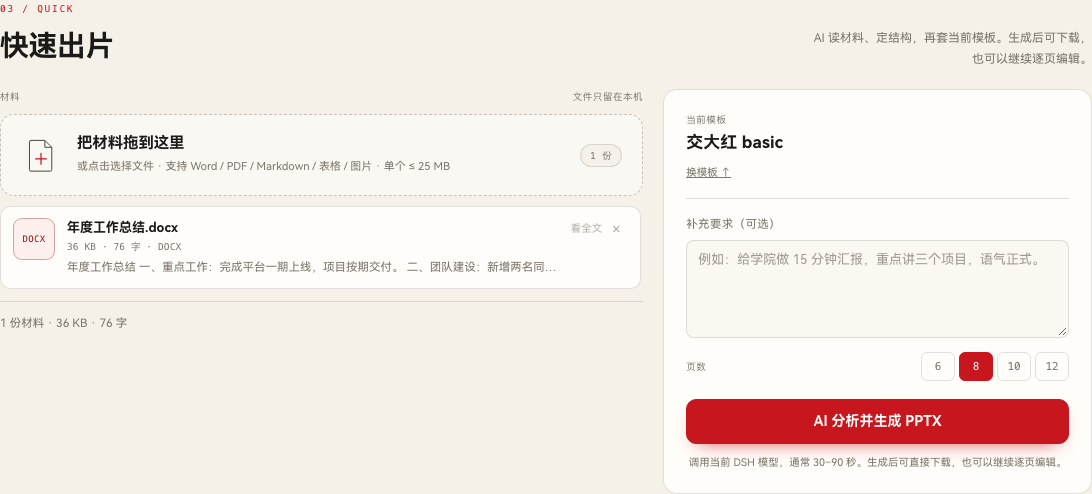
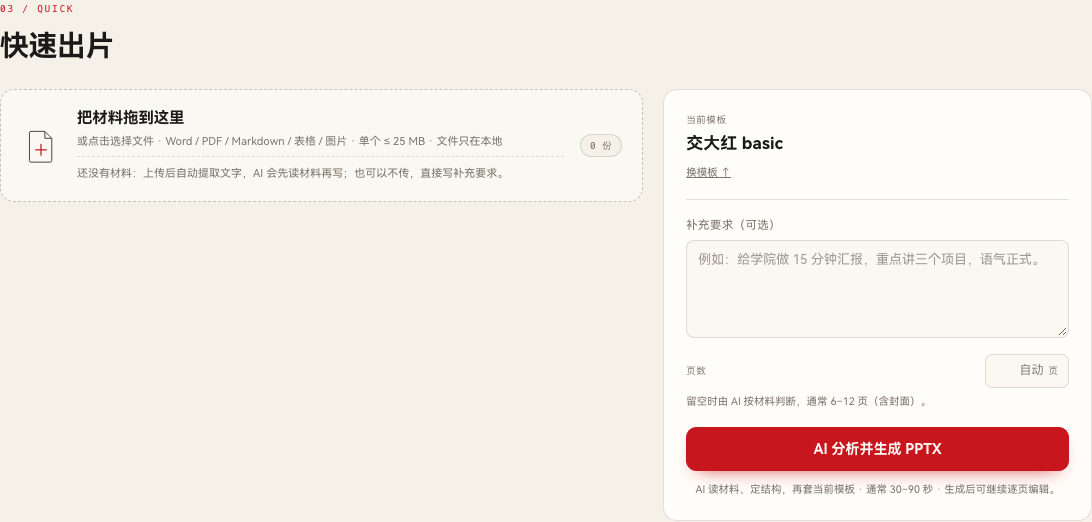
feat: refine quick panel and auto page count

diff --git a/web/index.html b/web/index.html
@@ -105,14 +105,9 @@
               <p class="kicker">03 / QUICK</p>
               <h2>快速出片</h2>
             </div>
-            <p class="block-note">AI 读材料、定结构，再套当前模板。生成后可下载，也可以继续逐页编辑。</p>
           </div>
           <div class="quick-grid">
             <div class="quick-desk">
-              <div class="quick-desk-head">
-                <span>材料</span>
-                <span>文件只留在本机</span>
-              </div>
               <div class="drop-zone quick-drop" id="dropZone" tabindex="0" role="button" aria-label="上传材料">
                 <svg class="drop-icon" viewBox="0 0 52 52" fill="none" aria-hidden="true">
                   <path d="M13 7h18l9 9v29a2 2 0 0 1-2 2H13a2 2 0 0 1-2-2V9a2 2 0 0 1 2-2Z" stroke="currentColor" stroke-width="1.3" />
@@ -121,17 +116,13 @@
                 </svg>
                 <div class="drop-copy">
                   <strong>把材料拖到这里</strong>
-                  <span>或点击选择文件 · 支持 Word / PDF / Markdown / 表格 / 图片 · 单个 ≤ 25 MB</span>
+                  <span>或点击选择文件 · Word / PDF / Markdown / 表格 / 图片 · 单个 ≤ 25 MB · 文件只在本地</span>
+                  <span class="quick-empty" id="materialEmpty">还没有材料：上传后自动提取文字，AI 会先读材料再写；也可以不传，直接写补充要求。</span>
                 </div>
                 <span class="drop-count" id="materialCount">0 份</span>
                 <span class="drop-status" id="dropStatus" hidden></span>
               </div>
 
-              <div class="material-empty material-empty-quick" id="materialEmpty">
-                <span class="empty-glyph" aria-hidden="true">稿</span>
-                <strong>还没有材料</strong>
-                <span>上传后自动提取文字；AI 会先读材料再写。</span>
-              </div>
               <div class="material-list" id="materialList"></div>
               <div class="material-foot" id="materialFoot" hidden>
                 <span id="materialSummary">—</span>
@@ -149,20 +140,19 @@
                 <textarea id="quickBrief" rows="4" maxlength="1500" placeholder="例如：给学院做 15 分钟汇报，重点讲三个项目，语气正式。"></textarea>
               </label>
               <div class="quick-pages">
-                <span class="quick-label">页数</span>
-                <div class="page-options" id="quickPages" role="group" aria-label="生成页数">
-                  <button type="button" data-pages="6">6</button>
-                  <button type="button" data-pages="8" class="active" aria-pressed="true">8</button>
-                  <button type="button" data-pages="10">10</button>
-                  <button type="button" data-pages="12">12</button>
+                <label class="quick-label" for="quickPagesInput">页数</label>
+                <div class="pages-field">
+                  <input id="quickPagesInput" type="number" min="4" max="20" step="1" inputmode="numeric" placeholder="自动" aria-describedby="quickPagesHint" />
+                  <span>页</span>
                 </div>
               </div>
+              <p class="quick-hint" id="quickPagesHint">留空时由 AI 按材料判断，通常 6–12 页（含封面）。</p>
               <button class="btn primary lg quick-generate" id="quickGenerate" type="button">
                 <span class="spinner" id="quickSpinner" hidden></span>
                 <span id="quickLabel">AI 分析并生成 PPTX</span>
               </button>
               <p class="quick-status" id="quickStatus" hidden></p>
-              <p class="quick-note">调用当前 DSH 模型，通常 30–90 秒。生成后可直接下载，也可以继续逐页编辑。</p>
+              <p class="quick-note">AI 读材料、定结构，再套当前模板 · 通常 30–90 秒 · 生成后可继续逐页编辑。</p>
             </aside>
           </div>
           <input type="file" id="materialInput" multiple hidden accept=".doc,.docx,.pdf,.md,.markdown,.txt,.csv,.json,.html,.htm,.rtf,.ppt,.pptx,.xls,.xlsx,.png,.jpg,.jpeg,.webp,.gif" />

diff --git a/lib/quick.js b/lib/quick.js
@@ -129,10 +129,13 @@ function trimSlides(slides, max) {
  * 一键生成：材料 → 模型结构化 → 套模板 → .pptx。
  * @param {import('node:http').IncomingMessage['socket']} _unused
  */
-export async function quickGenerate(ctx, { templateId, brief = '', materialIds, pages = 8 } = {}) {
+export async function quickGenerate(ctx, { templateId, brief = '', materialIds, pages = null } = {}) {
   const template = templateById(String(templateId || ''))
   if (!template) throw Object.assign(new Error('模板不存在'), { status: 400 })
-  const wanted = Math.max(4, Math.min(20, Number(pages) || 8))
+  const asked = Number(pages)
+  const explicit = Number.isFinite(asked) && asked >= 4
+  const wanted = explicit ? Math.min(20, Math.round(asked)) : null
+  const maxSlides = explicit ? Math.max(3, wanted - 1) : 14
   const materials = pickMaterials(materialIds)
   const textMats = materials.filter((m) => m.chars > 0)
   const note = String(brief || '').trim().slice(0, 1500)
@@ -146,10 +149,14 @@ export async function quickGenerate(ctx, { templateId, brief = '', materialIds, 
     '只输出一个 JSON 对象，不要 markdown 代码块，不要解释，不要前后缀。',
   ].join('\n')
 
+  const pageGoal = explicit
+    ? `目标：整份 PPT 约 ${wanted} 页（含封面，正文约 ${wanted - 1} 个页面），不要超过 ${wanted} 页。页数已由用户指定，按这个页数组织内容，不要为了凑页数重复。`
+    : '目标：先根据材料的信息量判断一个合理页数（含封面，通常 6–12 页；材料少 5–8 页，材料多 10–14 页，最多 15 页），再按这个页数组织内容；不要为了凑页数重复。'
+
   const prompt = [
     `模板：${template.display || `${template.label} ${template.name}`}`,
     `模板特点：${template.description}`,
-    `目标：整份 PPT 约 ${wanted} 页（含封面，正文约 ${wanted - 1} 个页面），不要超过 ${wanted} 页。`,
+    pageGoal,
     note ? `补充要求：\n${note}` : '补充要求：无',
     '',
     context.text ? `材料：\n${context.text}` : '材料：没有可读文字，请主要依据补充要求写。',
@@ -164,14 +171,15 @@ export async function quickGenerate(ctx, { templateId, brief = '', materialIds, 
     ']}',
     '',
     '规则：',
-    '- 只使用材料里出现的事实和数据；材料没写的数字不要编。',
+    '- 只使用材料里出现的事实和数据；材料没写的具体数字、人名、时间不要编。',
+    '- 如果材料很少或没有文字材料，可以依据主题补充可靠的通用背景，但不要编造具体数据、人名、时间、机构。',
     '- 每页 title ≤ 24 字；content 3–5 条，每条 ≤ 40 字，不要写序号或 bullet 符号。',
-    '- 一页一个观点；目录 3–4 项；内页 2–5 个；1 个 section；1 个 end。',
+    '- 一页一个观点；目录 3–4 项；内页 3–10 个；1 个 section；1 个 end。',
     '- 用中文，正式、具体，不要「赋能」「闭环」这类空话。',
   ].join('\n')
 
   const text = await llmText(ctx, { system, prompt, maxTokens: 6000, timeoutMs: 180_000 })
-  const shaped = shapeContent(parseJsonLoose(text), Math.max(3, wanted - 1))
+  const shaped = shapeContent(parseJsonLoose(text), maxSlides)
 
   const now = new Date()
   const content = {

diff --git a/web/app.js b/web/app.js
@@ -29,7 +29,7 @@ const state = {
   materials: [],
   coverAssets: [],
   mode: 'quick',
-  quickPages: 8,
+  quickPages: null,
 }
 
 let lastDeck = null
@@ -1055,13 +1055,16 @@ function coverAssetHintText() {
 }
 
 function setQuickPages(pages) {
-  const next = [6, 8, 10, 12].includes(Number(pages)) ? Number(pages) : 8
+  const n = Number.parseInt(pages, 10)
+  const next = Number.isFinite(n) && n >= 4 ? Math.min(20, n) : null
   state.quickPages = next
-  for (const button of $$('#quickPages button')) {
-    const active = Number(button.dataset.pages) === next
-    button.classList.toggle('active', active)
-    button.setAttribute('aria-pressed', active ? 'true' : 'false')
-  }
+  if (els.quickPages) els.quickPages.value = next ? String(next) : ''
+}
+
+function readQuickPages() {
+  const raw = els.quickPages ? els.quickPages.value.trim() : ''
+  const n = Number.parseInt(raw, 10)
+  return Number.isFinite(n) && n >= 4 ? Math.min(20, n) : null
 }
 
 function setMode(mode, { scroll = true } = {}) {
@@ -1110,6 +1113,12 @@ async function runQuick() {
     els.dropZone.scrollIntoView({ behavior: 'smooth', block: 'center' })
     return
   }
+  const pages = readQuickPages()
+  state.quickPages = pages
+  if (els.quickPages) {
+    if (pages) els.quickPages.value = String(pages)
+    else if (els.quickPages.value.trim()) els.quickPages.value = ''
+  }
   setQuickBusy(true, '正在读材料…')
   const analysis = setTimeout(() => setQuickBusy(true, 'AI 正在分析材料…'), 1200)
   const layout = setTimeout(() => setQuickBusy(true, '正在套模板排版…'), 15_000)
@@ -1121,7 +1130,7 @@ async function runQuick() {
         template: state.tId,
         brief,
         materialIds: materials.map((m) => m.id),
-        pages: state.quickPages,
+        pages,
       }),
     })
     const data = await response.json().catch(() => ({}))
@@ -1388,7 +1397,7 @@ async function boot() {
   els.buildBar = $('#buildBar')
   els.quickTemplateName = $('#quickTemplateName')
   els.quickBrief = $('#quickBrief')
-  els.quickPages = $('#quickPages')
+  els.quickPages = $('#quickPagesInput')
   els.quickGenerate = $('#quickGenerate')
   els.quickSpinner = $('#quickSpinner')
   els.quickLabel = $('#quickLabel')
@@ -1518,10 +1527,11 @@ function bind() {
   for (const card of $$('.mode-card')) {
     card.addEventListener('click', () => setMode(card.dataset.mode))
   }
-  els.quickPages.addEventListener('click', (event) => {
-    const button = event.target.closest('[data-pages]')
-    if (button) setQuickPages(button.dataset.pages)
+  els.quickPages.addEventListener('input', () => {
+    const n = Number.parseInt(els.quickPages.value, 10)
+    state.quickPages = Number.isFinite(n) && n >= 4 ? Math.min(20, n) : null
   })
+  els.quickPages.addEventListener('change', () => setQuickPages(els.quickPages.value))
   els.quickGenerate.addEventListener('click', runQuick)
 
   els.dropZone.addEventListener('click', () => {

diff --git a/web/style.css b/web/style.css
@@ -1638,18 +1638,6 @@ html[data-scheme="dark"] .ext-xls {
   min-width: 0;
 }
 
-.quick-desk-head {
-  display: flex;
-  align-items: center;
-  justify-content: space-between;
-  gap: 12px;
-  margin-bottom: 10px;
-  font-family: var(--mono);
-  font-size: 9.5px;
-  letter-spacing: 0.06em;
-  color: var(--ink-3);
-}
-
 .quick-drop {
   flex-direction: row;
   align-items: center;
@@ -1680,6 +1668,14 @@ html[data-scheme="dark"] .ext-xls {
   font-size: 11px;
 }
 
+.quick-drop .quick-empty {
+  margin-top: 9px;
+  padding-top: 8px;
+  border-top: 1px dashed var(--line);
+  font-size: 10.5px;
+  line-height: 1.65;
+}
+
 .quick-drop .drop-count {
   position: static;
   flex: none;
@@ -1695,11 +1691,6 @@ html[data-scheme="dark"] .ext-xls {
 .quick-desk .material-list {
   margin-top: 10px;
   max-height: 380px;
-}
-
-.quick-desk .material-empty-quick {
-  min-height: 140px;
-  margin-top: 10px;
 }
 
 .quick-settings {
@@ -1744,34 +1735,59 @@ html[data-scheme="dark"] .ext-xls {
   align-items: center;
   justify-content: space-between;
   gap: 12px;
-  margin: 14px 0 18px;
+  margin: 16px 0 6px;
 }
 
-.page-options {
-  display: flex;
-  gap: 4px;
-}
-
-.page-options button {
-  min-width: 34px;
-  padding: 5px 8px;
+.pages-field {
+  display: inline-flex;
+  align-items: center;
+  gap: 5px;
+  height: 34px;
+  padding: 0 10px;
   border: 1px solid var(--line);
-  border-radius: 6px;
+  border-radius: 7px;
+  background: var(--paper-2);
+  transition: border-color 0.18s;
+}
+
+.pages-field:focus-within {
+  border-color: var(--red);
+}
+
+.pages-field input {
+  width: 48px;
+  padding: 0;
+  border: 0;
+  outline: none;
   background: transparent;
   font-family: var(--mono);
-  font-size: 11px;
+  font-size: 12px;
+  color: var(--ink);
+  text-align: right;
+  appearance: textfield;
+}
+
+.pages-field input::placeholder {
   color: var(--ink-3);
 }
 
-.page-options button:hover {
-  border-color: var(--line-strong);
-  color: var(--ink);
+.pages-field input::-webkit-outer-spin-button,
+.pages-field input::-webkit-inner-spin-button {
+  margin: 0;
+  -webkit-appearance: none;
 }
 
-.page-options button.active {
-  border-color: var(--red);
-  background: var(--red);
-  color: #fff;
+.pages-field span {
+  font-family: var(--mono);
+  font-size: 9.5px;
+  color: var(--ink-3);
+}
+
+.quick-hint {
+  margin: 0 0 16px;
+  font-size: 10.5px;
+  line-height: 1.6;
+  color: var(--ink-3);
 }
 
 .quick-generate {

diff --git a/lib/index.js b/lib/index.js
@@ -1,4 +1,4 @@
-// 交大演示 · DeepSeek Harness 插件：Host 半边（0.3.7 校训与数字）
+// 交大演示 · DeepSeek Harness 插件：Host 半边（0.3.8 快速面板）
 // 1. 把随附的 sjtu-ppt skill 注册进 ctx.skills，模型和 /sjtu-ppt 命令都能用
 //    再给模型一个生成工具 sjtu_ppt_generate（lib/tool.js）
 // 2. /sjtu-ppt/                    侧栏页面（web/）

diff --git a/README.md b/README.md
@@ -93,8 +93,8 @@ node "/Applications/DeepSeek Harness.app/Contents/Resources/runtime/primary-runt
 
 1. 在 **01 / TEMPLATE** 选一套模板。
 2. 在 **02 / MODE** 选「快速生成」。
-3. 把材料拖进材料台，选页数（6 / 8 / 10 / 12），可以补一句要求（听众、场合、重点）。
-4. 点「AI 分析并生成 PPTX」。插件直接调用当前 DSH 默认模型：读材料、定结构、套模板、生成文件，通常 30–90 秒。结果在面板里直接弹下载，不会跳到一个新对话。页数按含封面的总页数算，模型写超了会裁到目标。
+3. 把材料拖进材料台；页数可以留空（AI 按材料自动预估，通常 6–12 页），也可以填 4–20 之间的数字。补一句要求（听众、场合、重点）也可以。
+4. 点「AI 分析并生成 PPTX」。插件直接调用当前 DSH 默认模型：读材料、定结构、套模板、生成文件，通常 30–90 秒。页数留空时，模型会先按材料信息量判断合理页数，再组织内容；填写时按填写的页数裁切。结果在面板里直接弹下载，不会跳到一个新对话。
 5. 结果弹窗里点「带入逐页编辑」，这份结构会写回编辑器继续改；图片以生成的 PPT 为准。
 
 ![快速生成](docs/quick.png)
